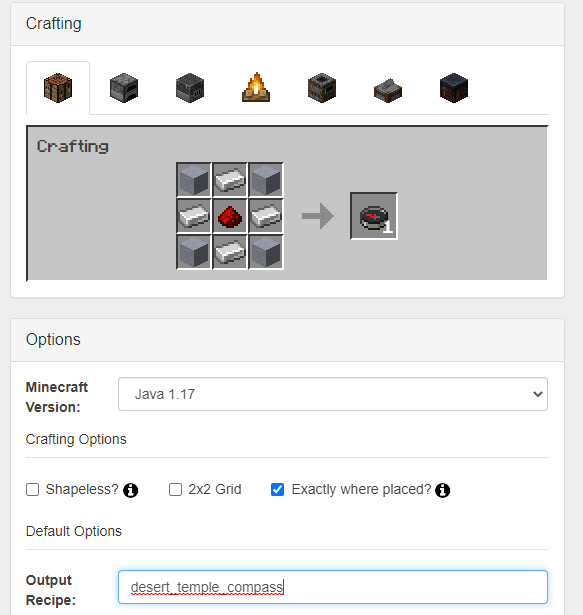
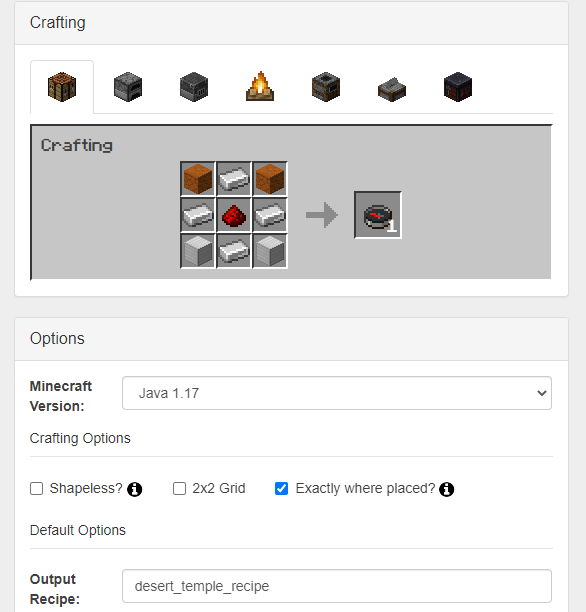
Change desert temple recipe

diff --git a/src/main/java/uk/bethan/compassesPlugin/compasses/DesertTemplesCompass.java b/src/main/java/uk/bethan/compassesPlugin/compasses/DesertTemplesCompass.java
@@ -16,11 +16,12 @@ public class DesertTemplesCompass implements Compass {
 
         ShapedRecipe desertTempleCompassRecipe = new ShapedRecipe(key, getItem());
 
-        desertTempleCompassRecipe.shape("CIC", "IRI", "CIC");
+        desertTempleCompassRecipe.shape("SIS", "IRI", "BIB");
 
         desertTempleCompassRecipe.setIngredient('I', Material.IRON_INGOT);
         desertTempleCompassRecipe.setIngredient('R', Material.REDSTONE);
-        desertTempleCompassRecipe.setIngredient('C', Material.CLAY);
+        desertTempleCompassRecipe.setIngredient('S', Material.RED_SANDSTONE);
+        desertTempleCompassRecipe.setIngredient('B', Material.IRON_BLOCK);
 
         CompassesPlugin.plugin.getServer().addRecipe(desertTempleCompassRecipe);
     }
